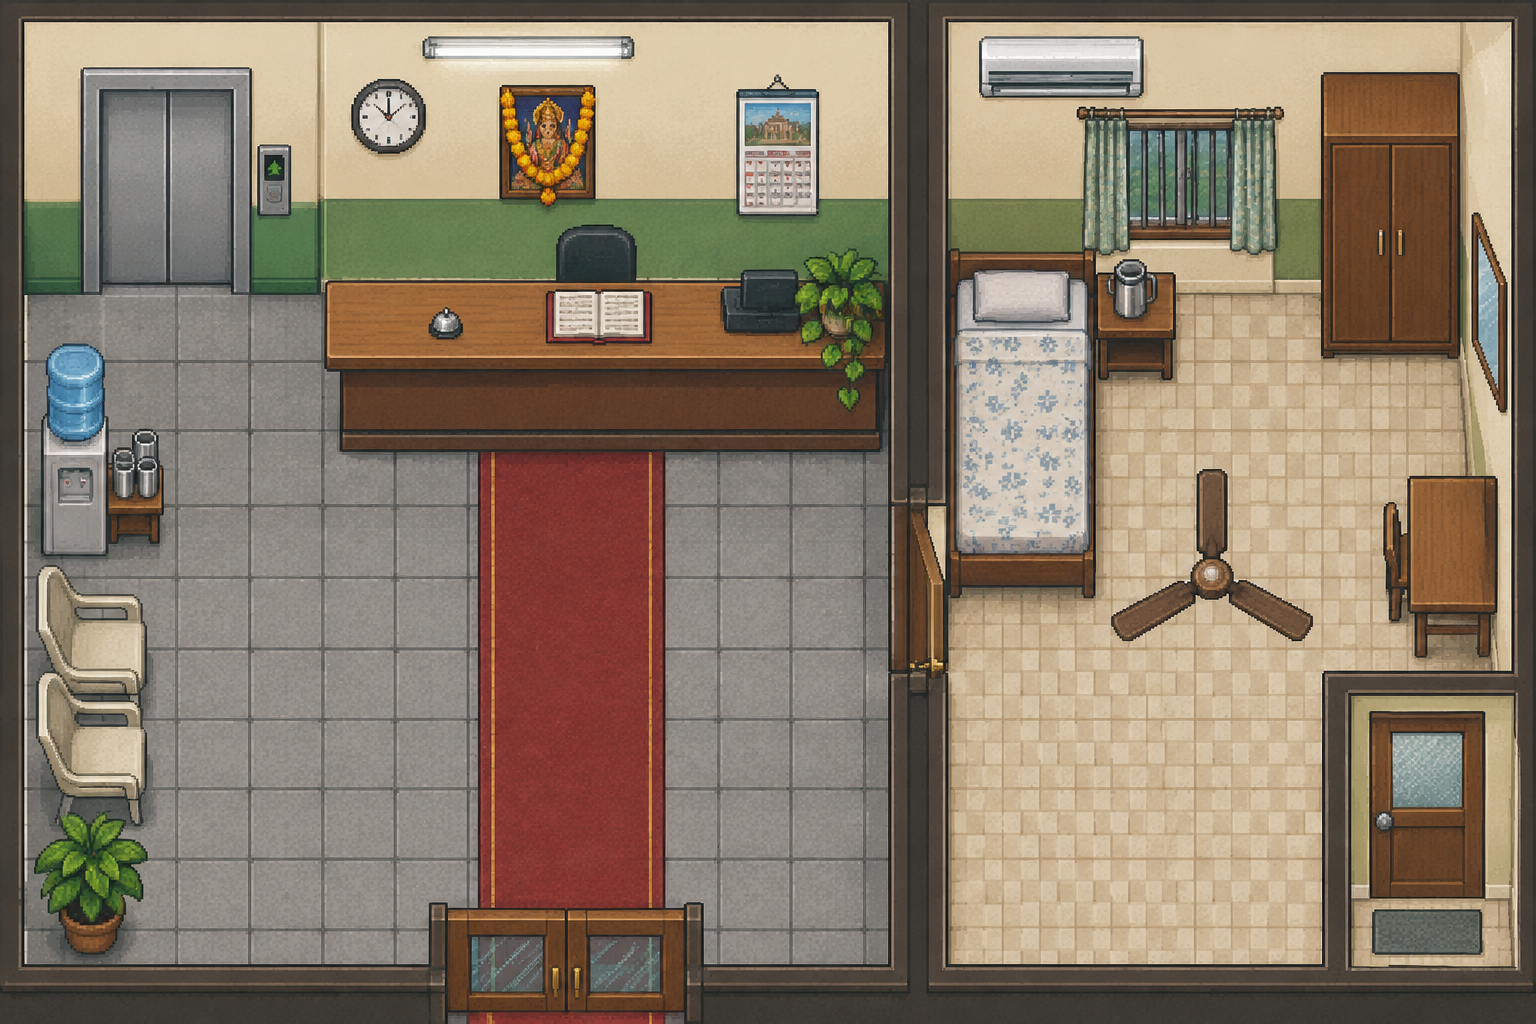
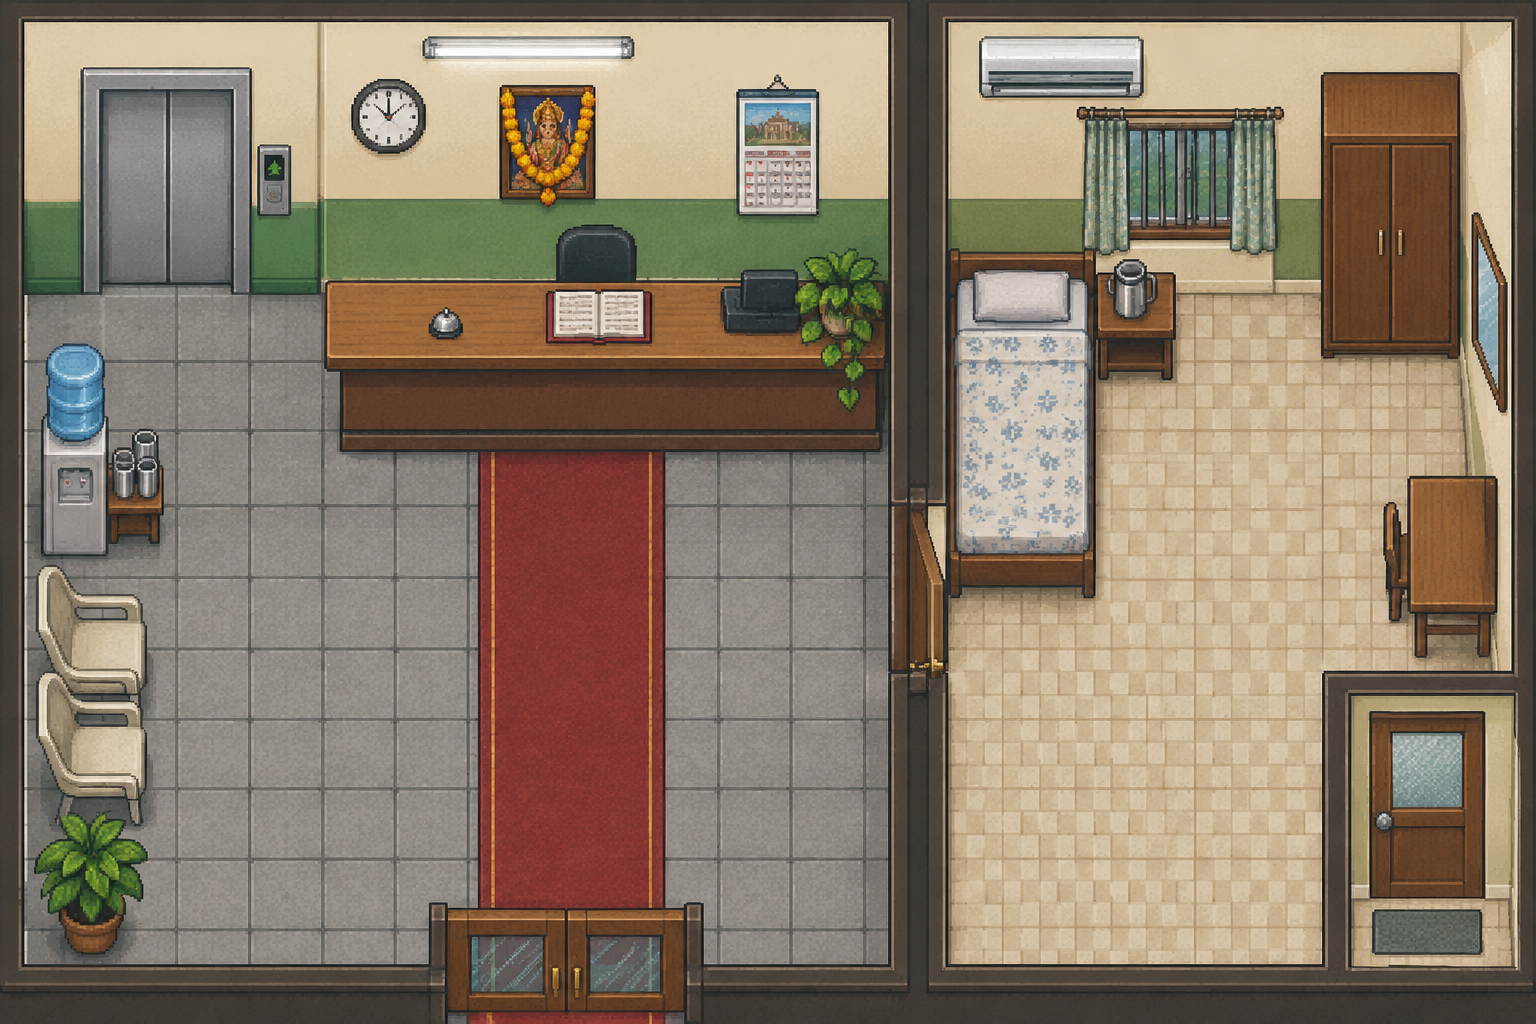
Remove the ceiling fans from the PG room, the hotel guest room and the hill flat (user audit: a fan seen from above reads as an object on the floor); rule: no ceiling fans in interior renders

Changed region(s): [[0.7188, 0.4375, 0.875, 0.625]]

diff --git a/src/assets/_raw/maps/README.md b/src/assets/_raw/maps/README.md
@@ -22,7 +22,7 @@ Outdoor lanes work the same way as interiors: shops whose open fronts face the v
 
 Since the P5 audit (ADR-99/100), specs are authored in **source pixels** (`"units": "px"`): blocks trace where things meet the ground, spawns are feet points, occluders are cut out of the render. Pick `cols`/`rows` for scale (interiors 10×7 from a 1536×1024 render: cot ≈ 2 tiles). Check with a debug preview (blocks + occluders over the darkened map) and walk every route in the browser before the audit.
 
-Rules that worked: say "walls as flat bands along the top of each room", list the rooms with their share of the width, name every prop, end with "fill the whole image edge to edge; no outside, no border".
+Rules that worked: say "walls as flat bands along the top of each room", **"no ceiling fan, nothing hanging from the ceiling"** (user audit 2026-10-17: a fan seen from above reads as an object on the floor; the PG, hotel and hill-flat fans were painted out), list the rooms with their share of the width, name every prop, end with "fill the whole image edge to edge; no outside, no border".
 
 | `cubbon_park.png` (1536×1024 → 36×24 tiles) | same | 2026-10-16 | "FireRed / RPG Maker MV exterior, orthographic, facades as flat bands: Cubbon Park on a Sunday — lawns in two greens, a red laterite loop from the left edge to a gate on the right edge; top-left a red colonial library with white pillars and wide stone steps; top-right the corner of a red stone court building with white trim and a small dome; centre a white cast-iron octagonal bandstand with a green roof on a round plinth; a dense bamboo grove down the left; two rain trees; a cycle-rental stand under a blue tin shed; an ice-cream pushcart with a striped umbrella; benches, a water tap, a dustbin, a blank sign post; along the bottom a stone compound wall with railings and a gate onto a granite pavement with three shop fronts, one with a guitar in the window; ~48 colours; no people, animals, text or vehicles" — first try. Look-only reference: general knowledge of the park (bandstand, State Central Library, Attara Kacheri); landmarks compressed into one pocket (ADR-124) |
 | `bus_interior.png` (1536×1024 → 12×8 tiles) | same | 2026-10-16 | "RPG Maker MV indoor map, walls as flat bands: the inside of a Bengaluru city bus running left to right — a top band of tinted windows with a grab rail and hand-straps, ten paired blue-grey seats facing right, a ribbed grey aisle with a worn yellow line, a second seat row and lower window band; driver's cabin at the left with a steering wheel, dashboard, partition and a marigold shrine; the open folding door with two steps, a conductor's seat and a ticket box at the right; two steel poles; no people, no text" — first try |

diff --git a/AUDIT_LOG.md b/AUDIT_LOG.md
@@ -220,3 +220,8 @@ Every map re-authored into `buildings` / `sorted` (cut-outs with footprints) / `
 - Verified: in the browser pane (one clock) — Church Street with the busker and his case, the shop with the owner and the TALK prompt, the lane mid-song (CLEAN, 5/16, "10 of 16 to learn it" after the busker's tip), the flat with the guitar on its stand and "Lesson 1 · G — learned."; headless — `pnpm movie --twice`: **13 of 13 green, identical 277-step trace and scene times**; 2.3 alone: 34 steps, all three lessons learned through real E presses, wallet ₹28,495 (₹60 from Ananya, −₹6,500 guitar, −₹10 busker, −₹35 + −₹20 buses — the ledger matches). 454 tests, validators, typecheck, `pnpm build` green.
 - Calls to confirm or overturn: the shop at 12×8 (smaller than other interiors so the counter stays in reach); the long name "Guitar shop, Church Street" shortened to "Guitar shop" (it collided with the wallet plate); a failed lesson still uses the night (the draft's words); the lane card is plain (title, chords, the lane, STRUM) — no guitar picture yet; the guitar on the player's back is not drawn; the busker's tip lowers G to 60%.
 - Generator/bot rules added: a `rhythm` step (E on the intro, E a frame before each note, E on the result); the generator resolves lesson flags through `rhythm` triggers, earlier lessons first, a sleep between sessions; a goto into a zone that opens the lane counts as arrival.
+
+### [User audit — fans on the floor] — 2026-10-17
+- Correction (user): "in few of the scenes, which is inside a room, I saw a fan that is on the ground … not required. Just remove the fan." A ceiling fan drawn in a straight-down render reads as an object lying on the floor.
+- Fixed: the fan is painted out of the three renders that had one — `shanthamma_pg.png`, `whitefield_hotel.png` (guest room), `hill_flat.png` — by patching each with a matched, light-corrected piece of the same floor (the hotel's checker aligned to its tile period), feathered at the edges; the hill flat's `above: fan` cut-out is gone; the three maps re-imported. The PG's chair/bucket cut-outs key a little differently now (their floor sample used to sit on a fan blade).
+- Rule going forward: **no ceiling fans (or anything else that hangs from a ceiling) in top-down interior renders** — every interior prompt says "no ceiling fan, nothing hanging from the ceiling"; if a render draws one anyway, paint it out before import. Wall-mounted things (tube lights, calendars, AC units on the wall band) are fine.
